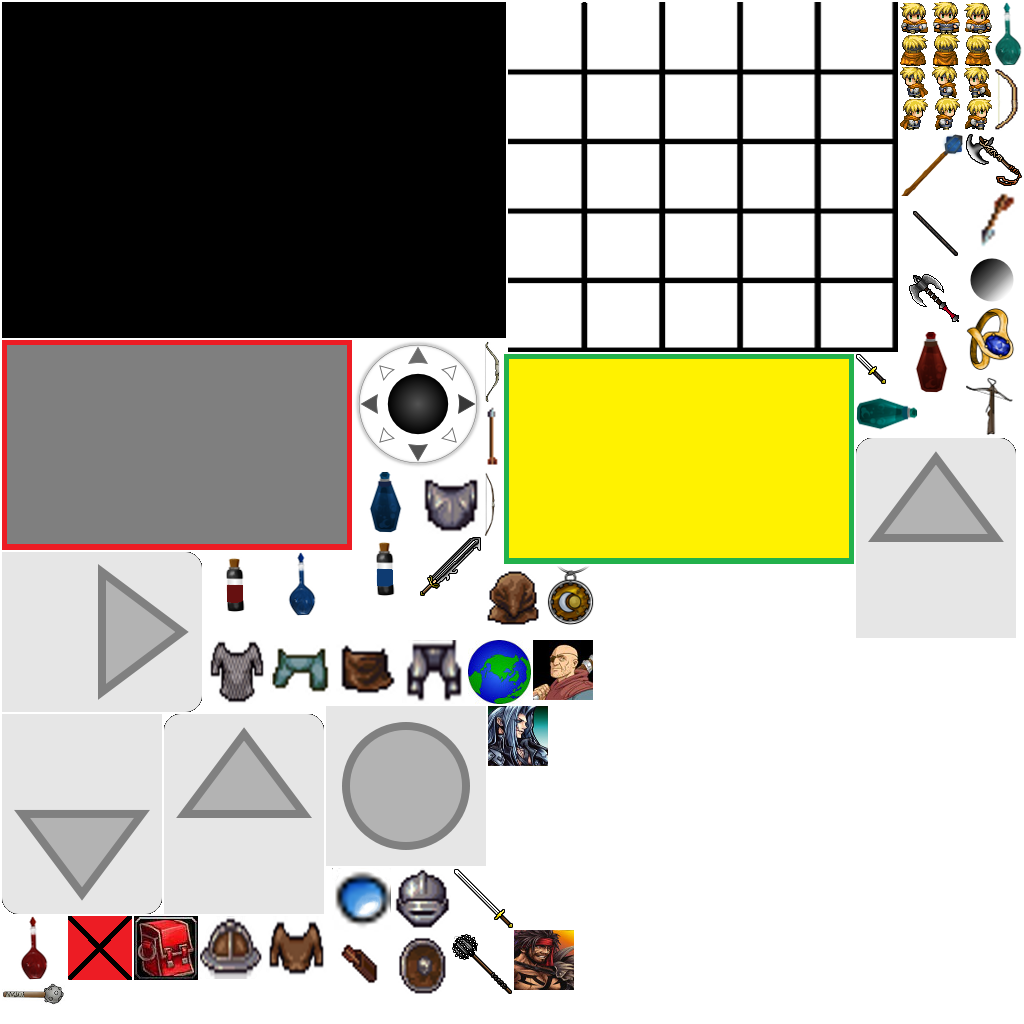
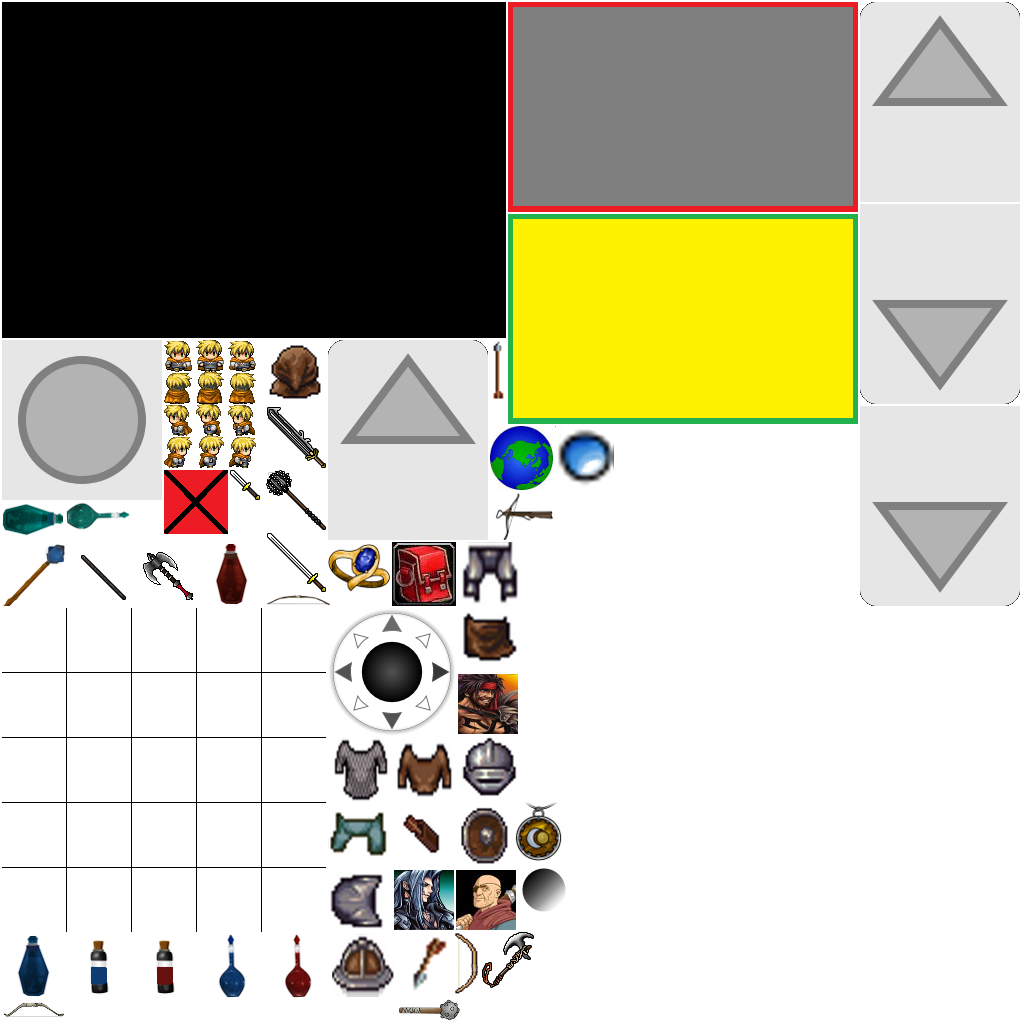
inventory stuff (positions are good)

diff --git a/DragonsReign/src/dragonsreign/scene/InventoryScene.java b/DragonsReign/src/dragonsreign/scene/InventoryScene.java
@@ -17,6 +17,7 @@ import dragonsreign.character.PlayerCharacter;
 import dragonsreign.character.characterclass.ClericClass;
 import dragonsreign.character.characterclass.RangerClass;
 import dragonsreign.character.characterclass.WarriorClass;
+import dragonsreign.item.Inventory;
 import dragonsreign.manager.SceneManager;
 import dragonsreign.manager.SceneManager.SceneType;
 
@@ -39,6 +40,8 @@ public class InventoryScene extends PartyContainer {
 	private Text playerInfo[];
 	
 	private PlayerCharacter player[];
+	
+	private Inventory inventory;
 	
 	private int playerSelected;
 
@@ -106,6 +109,8 @@ public class InventoryScene extends PartyContainer {
 		playerResourceBar = new Rectangle[3];
 		playerXpBar = new Rectangle[3];
 		playerInfo = new Text[3];
+		
+		inventory = new Inventory();
 
 		createPlayerTouchAreas();
 		createPlayers();
@@ -286,26 +291,45 @@ public class InventoryScene extends PartyContainer {
 		// Inventory touch areas
 		inventorySlot = new Sprite[25];
 
-		inventorySlot[0] = new Sprite(0, 0, resourcesManager.heavyHelm,
-				this.engine.getVertexBufferObjectManager()) {
-			@Override
-			public boolean onAreaTouched(final TouchEvent pSceneTouchEvent,
-					final float pTouchAreaLocalX, final float pTouchAreaLocalY) {
-				switch (pSceneTouchEvent.getAction()) {
-				case TouchEvent.ACTION_DOWN:
-					Log.e("test", "heavy helm");
-					break;
+		int i = 0;
+		
+		for(int j = 0; j < inventory.getMaxInventorySize() / 5; j++) {
+			for(int k = 0; k < inventory.getMaxInventorySize() / 5; k++) {
+				
+				if(i < inventory.getMaxInventorySize()) {
+					inventorySlot[i] = new Sprite(0, 0, resourcesManager.amulet,
+							this.engine.getVertexBufferObjectManager()) {
+						@Override
+						public boolean onAreaTouched(final TouchEvent pSceneTouchEvent,
+								final float pTouchAreaLocalX, final float pTouchAreaLocalY) {
+							switch (pSceneTouchEvent.getAction()) {
+							case TouchEvent.ACTION_DOWN:
+								Log.e("test", "heavy helm");
+								break;
 
+							}
+							return true;
+
+						}
+					};
+					
+					
+					if (k == 0 && j == 0) {
+						inventorySlot[i].setPosition(420 + (k * 64), 0 + (j * 64));
+						Log.e("InventoryScene k == 0, j == 0", "i = " + i + ", x = " + inventorySlot[i].getX() + ", y = " + inventorySlot[i].getY());
+					} else {
+						inventorySlot[i].setPosition(420 + (k * 64) + (1 * k), 0 + (j * 64) + (1 * j));
+						Log.e("InventoryScene k > 0 || j > 0", "i = " + i + ", x = " + inventorySlot[i].getX() + ", y = " + inventorySlot[i].getY());
+					} 
+
+					inventoryChildScene.attachChild(inventorySlot[i]);
+					
+					registerTouchArea(inventorySlot[i]);
+					
+					i++;
 				}
-				return true;
-
 			}
-		};
-		
-		inventorySlot[0].setPosition(420, 0);
-		inventoryChildScene.attachChild(inventorySlot[0]);
-		
-		registerTouchArea(inventorySlot[0]);
+		}
 	}
 
 	public void createPlayers() {

diff --git a/DragonsReign/assets/gfx/game/GameAssets.java b/DragonsReign/assets/gfx/game/GameAssets.java
@@ -1,7 +1,7 @@
 // Definitions for sprite sheet GameAssets.png
 // Created with TexturePacker www.codeandweb.com/texturepacker
 
-// $TexturePacker:SmartUpdate:ed271faa6d7a607551fde8d6b85d88c2:1/1$
+// $TexturePacker:SmartUpdate:8c26356d1d5ca4df9f87c65c6cb826c1:1/1$
 
 package Texture;
 
@@ -10,26 +10,26 @@ public interface GameAssets
 	public static final int CENTER_DPAD_ID = 0;
 	public static final int DOWN_DPAD_ID = 1;
 	public static final int FADEBACKGROUND_ID = 2;
-	public static final int LEFT_DPAD_ID = 3;
-	public static final int RIGHT_DPAD_ID = 4;
-	public static final int UP_DPAD_ID = 5;
-	public static final int ARMOR_AMULET_ID = 6;
-	public static final int ARMOR_HEAVYHELM_ID = 7;
-	public static final int ARMOR_HEAVYLOWER_ID = 8;
-	public static final int ARMOR_HEAVYUPPER_ID = 9;
-	public static final int ARMOR_LIGHTHELM_ID = 10;
-	public static final int ARMOR_LIGHTLOWER_ID = 11;
-	public static final int ARMOR_LIGHTUPPER_ID = 12;
-	public static final int ARMOR_MEDIUMHELM_ID = 13;
-	public static final int ARMOR_MEDIUMLOWER_ID = 14;
-	public static final int ARMOR_MEDIUMUPPER_ID = 15;
-	public static final int ARMOR_RING_ID = 16;
-	public static final int ARMOR_SHIELD_ID = 17;
-	public static final int BACKPACK_ID = 18;
-	public static final int CURRENTEQUIPMENTSLOTS_ID = 19;
-	public static final int EXIT_ID = 20;
-	public static final int HERO_ID = 21;
-	public static final int INVENTORY_ID = 22;
+	public static final int INVENTORY_ID = 3;
+	public static final int LEFT_DPAD_ID = 4;
+	public static final int RIGHT_DPAD_ID = 5;
+	public static final int UP_DPAD_ID = 6;
+	public static final int ARMOR_AMULET_ID = 7;
+	public static final int ARMOR_HEAVYHELM_ID = 8;
+	public static final int ARMOR_HEAVYLOWER_ID = 9;
+	public static final int ARMOR_HEAVYUPPER_ID = 10;
+	public static final int ARMOR_LIGHTHELM_ID = 11;
+	public static final int ARMOR_LIGHTLOWER_ID = 12;
+	public static final int ARMOR_LIGHTUPPER_ID = 13;
+	public static final int ARMOR_MEDIUMHELM_ID = 14;
+	public static final int ARMOR_MEDIUMLOWER_ID = 15;
+	public static final int ARMOR_MEDIUMUPPER_ID = 16;
+	public static final int ARMOR_RING_ID = 17;
+	public static final int ARMOR_SHIELD_ID = 18;
+	public static final int BACKPACK_ID = 19;
+	public static final int CURRENTEQUIPMENTSLOTS_ID = 20;
+	public static final int EXIT_ID = 21;
+	public static final int HERO_ID = 22;
 	public static final int ONSCREEN_CONTROL_BASE_ID = 23;
 	public static final int ONSCREEN_CONTROL_KNOB_ID = 24;
 	public static final int PORTRAIT_ID = 25;

diff --git a/DragonsReign/src/dragonsreign/texturepacker/GameAssets.java b/DragonsReign/src/dragonsreign/texturepacker/GameAssets.java
@@ -11,26 +11,26 @@ public interface GameAssets
 	public static final int CENTER_DPAD_ID = 0;
 	public static final int DOWN_DPAD_ID = 1;
 	public static final int FADEBACKGROUND_ID = 2;
-	public static final int LEFT_DPAD_ID = 3;
-	public static final int RIGHT_DPAD_ID = 4;
-	public static final int UP_DPAD_ID = 5;
-	public static final int ARMOR_AMULET_ID = 6;
-	public static final int ARMOR_HEAVYHELM_ID = 7;
-	public static final int ARMOR_HEAVYLOWER_ID = 8;
-	public static final int ARMOR_HEAVYUPPER_ID = 9;
-	public static final int ARMOR_LIGHTHELM_ID = 10;
-	public static final int ARMOR_LIGHTLOWER_ID = 11;
-	public static final int ARMOR_LIGHTUPPER_ID = 12;
-	public static final int ARMOR_MEDIUMHELM_ID = 13;
-	public static final int ARMOR_MEDIUMLOWER_ID = 14;
-	public static final int ARMOR_MEDIUMUPPER_ID = 15;
-	public static final int ARMOR_RING_ID = 16;
-	public static final int ARMOR_SHIELD_ID = 17;
-	public static final int BACKPACK_ID = 18;
-	public static final int CURRENTEQUIPMENTSLOTS_ID = 19;
-	public static final int EXIT_ID = 20;
-	public static final int HERO_ID = 21;
-	public static final int INVENTORY_ID = 22;
+	public static final int INVENTORY_ID = 3;
+	public static final int LEFT_DPAD_ID = 4;
+	public static final int RIGHT_DPAD_ID = 5;
+	public static final int UP_DPAD_ID = 6;
+	public static final int ARMOR_AMULET_ID = 7;
+	public static final int ARMOR_HEAVYHELM_ID = 8;
+	public static final int ARMOR_HEAVYLOWER_ID = 9;
+	public static final int ARMOR_HEAVYUPPER_ID = 10;
+	public static final int ARMOR_LIGHTHELM_ID = 11;
+	public static final int ARMOR_LIGHTLOWER_ID = 12;
+	public static final int ARMOR_LIGHTUPPER_ID = 13;
+	public static final int ARMOR_MEDIUMHELM_ID = 14;
+	public static final int ARMOR_MEDIUMLOWER_ID = 15;
+	public static final int ARMOR_MEDIUMUPPER_ID = 16;
+	public static final int ARMOR_RING_ID = 17;
+	public static final int ARMOR_SHIELD_ID = 18;
+	public static final int BACKPACK_ID = 19;
+	public static final int CURRENTEQUIPMENTSLOTS_ID = 20;
+	public static final int EXIT_ID = 21;
+	public static final int HERO_ID = 22;
 	public static final int ONSCREEN_CONTROL_BASE_ID = 23;
 	public static final int ONSCREEN_CONTROL_KNOB_ID = 24;
 	public static final int PORTRAIT_ID = 25;
